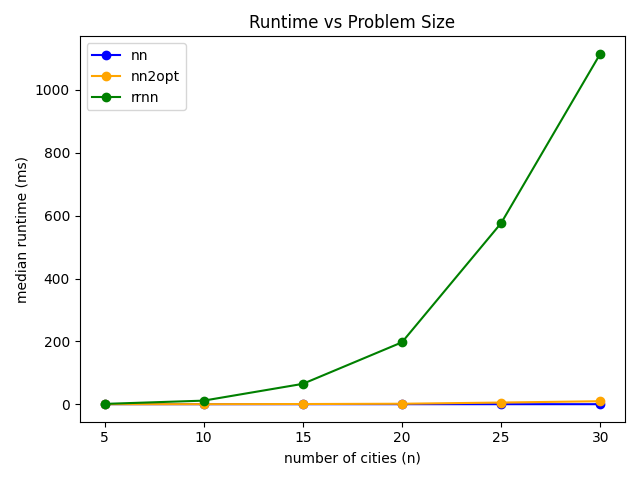
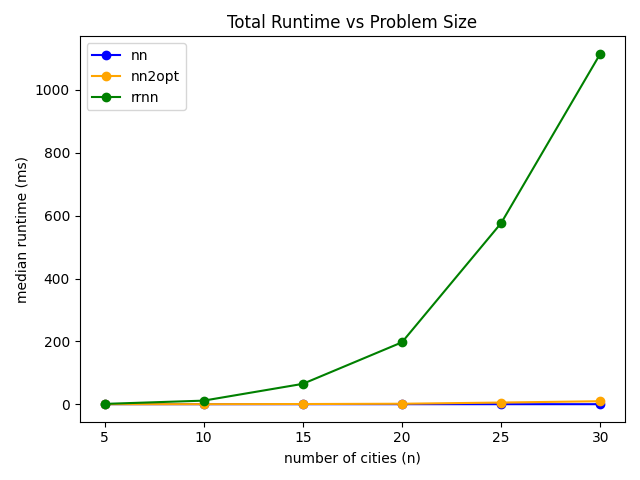
change up the greedy experiment to make it more yashu like

Changed region(s): [[0.3438, 0.0312, 0.75, 0.0625]]

diff --git a/experiments/greedy_experiments.py b/experiments/greedy_experiments.py
@@ -14,6 +14,20 @@ MATRICES_DIR = "data/matrices/Project_1_-_matrices"
 # these are the sizes we were given in the dataset
 SIZES = [5, 10, 15, 20, 25, 30]
 
+# pink color palette :)
+COLORS = {
+    "nn":     "hotpink",
+    "nn2opt": "deeppink",
+    "rrnn":   "lightpink"
+}
+
+# consistent marker styles so plots are readable even in grayscale
+MARKERS = {
+    "nn":     "o",
+    "nn2opt": "s",
+    "rrnn":   "^"
+}
+
 
 def load_matrices_by_size(data_dir):
     # group matrices by their size (number of cities)
@@ -22,7 +36,7 @@ def load_matrices_by_size(data_dir):
 
     for fname in sorted(os.listdir(data_dir)):
         if not fname.endswith(".txt"):
-            continue
+            continue  # skip anything that isnt a matrix file
         fpath = os.path.join(data_dir, fname)
         mat = load_matrix(fpath)
         n = mat.shape[0]  # n x n matrix so shape[0] gives number of cities
@@ -64,7 +78,6 @@ def run_rrnn_tuning(matrices):
     # that way we can actually tell which parameter is causing changes in cost
 
     # --- vary k, hold num_repeats fixed at 50 ---
-    # k=1 is basically regular NN, higher k = more randomness
     k_values = [1, 2, 3, 5, 7]
     fixed_repeats = 50
 
@@ -77,7 +90,6 @@ def run_rrnn_tuning(matrices):
             for mat in matrices[size]:
                 route, _, _ = time_algorithm(rrnn, mat, k=k, num_repeats=fixed_repeats)
                 costs.append(get_cost(route, mat))
-            # median is more robust than mean if one matrix happens to be weird
             k_results.append({"k": k, "size": size, "median_cost": np.median(costs)})
 
     df_k = pd.DataFrame(k_results)
@@ -85,7 +97,6 @@ def run_rrnn_tuning(matrices):
     print("saved rrnn_k_tuning.csv")
 
     # --- vary num_repeats, hold k fixed at 3 ---
-    # more repeats = better chance of finding a good tour but slower
     repeat_values = [10, 25, 50, 100, 200]
     fixed_k = 3
 
@@ -109,8 +120,7 @@ def run_rrnn_tuning(matrices):
 
 def run_comparison(matrices, best_k=3, best_repeats=50):
     # run all 3 algorithms on every matrix
-    # spec asks for median real runtime, median CPU time, and median cost
-    # we store every trial so we can compute medians after
+    # store every single trial so we can compute medians after
 
     results = []
 
@@ -142,15 +152,10 @@ def run_comparison(matrices, best_k=3, best_repeats=50):
 
 
 def run_consistency_experiment(matrices, best_k=3, best_repeats=50):
-    # BONUS EXPERIMENT: how consistent is each algorithm across different random matrices?
-    #
-    # this is genuinely interesting because two algorithms can have the same MEDIAN cost
-    # but one might be all over the place while the other is reliable
-    # we measure this using the coefficient of variation (std / mean)
-    # a higher value means the algorithm is more unpredictable
-    #
-    # this adds real depth to the report -- it's one thing to say "RRNN finds better tours"
-    # but another to say "and it's also more consistent than plain NN"
+    # bonus experiment: how consistent is each algorithm across different random matrices?
+    # two algorithms can have the same median cost but one might be all over the place
+    # we measure this using coefficient of variation (std / mean * 100)
+    # lower CV = more predictable and reliable across different inputs
 
     results = []
 
@@ -168,8 +173,6 @@ def run_consistency_experiment(matrices, best_k=3, best_repeats=50):
                 "size": size,
                 "mean_cost": np.mean(costs),
                 "std_cost": np.std(costs),
-                # coefficient of variation = how much variability relative to the mean
-                # multiply by 100 to express as a percentage
                 "cv": (np.std(costs) / np.mean(costs)) * 100,
             })
 
@@ -179,34 +182,57 @@ def run_consistency_experiment(matrices, best_k=3, best_repeats=50):
     return df
 
 
+def style_plot(title, xlabel, ylabel):
+    # helper to apply consistent styling to every plot
+    # calling this after plt.figure() sets up the background and font stuff
+    plt.title(title, fontsize=13, fontweight="bold", color="deeppink", pad=12)
+    plt.xlabel(xlabel, fontsize=11, color="#333333")
+    plt.ylabel(ylabel, fontsize=11, color="#333333")
+    plt.xticks(SIZES)
+    plt.gca().set_facecolor("#fff0f5")   # blush pink background inside the plot
+    plt.gcf().set_facecolor("#ffffff")   # white outer background
+    plt.gca().spines["top"].set_visible(False)     # remove top border
+    plt.gca().spines["right"].set_visible(False)   # remove right border
+    plt.gca().spines["left"].set_color("lightpink")
+    plt.gca().spines["bottom"].set_color("lightpink")
+    plt.gca().tick_params(colors="#555555")
+    plt.grid(True, color="lightpink", linestyle="--", linewidth=0.6, alpha=0.7)
+    plt.legend(fontsize=9)
+    plt.tight_layout()
+
+
 def plot_rrnn_tuning(df_k, df_repeats):
     os.makedirs("experiments/plots", exist_ok=True)
 
-    # plot 1: k on x axis, median cost on y axis (spec requirement)
-    plt.figure()
+    # plot 1: k on x axis, median cost on y axis
+    plt.figure(figsize=(8, 5))
     for size in SIZES:
         subset = df_k[df_k["size"] == size]
-        plt.plot(subset["k"], subset["median_cost"], marker="o", label=f"n={size}")
-    plt.xlabel("k (number of random choices)")
-    plt.ylabel("median cost")
-    plt.title("RRNN: Effect of k on Solution Cost")
-    plt.legend()
-    plt.tight_layout()
-    plt.savefig("experiments/plots/rrnn_k_tuning.png")
+        plt.plot(subset["k"], subset["median_cost"],
+                 marker="o", label=f"n={size}",
+                 color=plt.cm.RdPu(size / 35))  # gradient of pinks per size
+    style_plot(
+        title="RRNN: Effect of k on Solution Cost",
+        xlabel="k (number of random choices)",
+        ylabel="median cost"
+    )
+    plt.savefig("experiments/plots/rrnn_k_tuning.png", dpi=150)
     plt.close()
     print("saved rrnn_k_tuning.png")
 
-    # plot 2: num_repeats on x axis, median cost on y axis (spec requirement)
-    plt.figure()
+    # plot 2: num_repeats on x axis, median cost on y axis
+    plt.figure(figsize=(8, 5))
     for size in SIZES:
         subset = df_repeats[df_repeats["size"] == size]
-        plt.plot(subset["num_repeats"], subset["median_cost"], marker="o", label=f"n={size}")
-    plt.xlabel("num_repeats")
-    plt.ylabel("median cost")
-    plt.title("RRNN: Effect of num_repeats on Solution Cost")
-    plt.legend()
-    plt.tight_layout()
-    plt.savefig("experiments/plots/rrnn_repeats_tuning.png")
+        plt.plot(subset["num_repeats"], subset["median_cost"],
+                 marker="o", label=f"n={size}",
+                 color=plt.cm.RdPu(size / 35))
+    style_plot(
+        title="RRNN: Effect of num_repeats on Solution Cost",
+        xlabel="num_repeats",
+        ylabel="median cost"
+    )
+    plt.savefig("experiments/plots/rrnn_repeats_tuning.png", dpi=150)
     plt.close()
     print("saved rrnn_repeats_tuning.png")
 
@@ -215,60 +241,54 @@ def plot_comparison(df):
     os.makedirs("experiments/plots", exist_ok=True)
 
     # collapse 10 trials per size down to one median per algorithm per size
-    # spec specifically asks for median, not mean
     summary = (
         df.groupby(["algo", "size"])
           .median(numeric_only=True)
           .reset_index()
     )
 
-    # consistent colors across all 3 plots so the report looks cohesive
-    colors = {"nn": "blue", "nn2opt": "orange", "rrnn": "green"}
-    # x axis ticks match exactly what the spec asks for: 5, 10, 15, 20, 25, 30
-    xticks = SIZES
-
-    # plot 3: total runtime (spec requirement)
-    plt.figure()
+    # plot 3: total runtime
+    plt.figure(figsize=(8, 5))
     for algo in ["nn", "nn2opt", "rrnn"]:
         subset = summary[summary["algo"] == algo]
-        plt.plot(subset["size"], subset["runtime_ns"] / 1e6, marker="o", label=algo, color=colors[algo])
-    plt.xlabel("number of cities (n)")
-    plt.ylabel("median runtime (ms)")
-    plt.title("Total Runtime vs Problem Size")
-    plt.xticks(xticks)
-    plt.legend()
-    plt.tight_layout()
-    plt.savefig("experiments/plots/greedy_runtime.png")
+        plt.plot(subset["size"], subset["runtime_ns"] / 1e6,
+                 marker=MARKERS[algo], label=algo, color=COLORS[algo], linewidth=2)
+    style_plot(
+        title="Total Runtime vs Problem Size",
+        xlabel="number of cities (n)",
+        ylabel="median runtime (ms)"
+    )
+    plt.savefig("experiments/plots/greedy_runtime.png", dpi=150)
     plt.close()
     print("saved greedy_runtime.png")
 
-    # plot 4: CPU time (spec requirement)
-    plt.figure()
+    # plot 4: CPU time
+    plt.figure(figsize=(8, 5))
     for algo in ["nn", "nn2opt", "rrnn"]:
         subset = summary[summary["algo"] == algo]
-        plt.plot(subset["size"], subset["cpu_ns"] / 1e6, marker="o", label=algo, color=colors[algo])
-    plt.xlabel("number of cities (n)")
-    plt.ylabel("median CPU time (ms)")
-    plt.title("CPU Time vs Problem Size")
-    plt.xticks(xticks)
-    plt.legend()
-    plt.tight_layout()
-    plt.savefig("experiments/plots/greedy_cpu.png")
+        plt.plot(subset["size"], subset["cpu_ns"] / 1e6,
+                 marker=MARKERS[algo], label=algo, color=COLORS[algo], linewidth=2)
+    style_plot(
+        title="CPU Time vs Problem Size",
+        xlabel="number of cities (n)",
+        ylabel="median CPU time (ms)"
+    )
+    plt.savefig("experiments/plots/greedy_cpu.png", dpi=150)
     plt.close()
     print("saved greedy_cpu.png")
 
-    # plot 5: solution cost (spec requirement)
-    plt.figure()
+    # plot 5: solution cost
+    plt.figure(figsize=(8, 5))
     for algo in ["nn", "nn2opt", "rrnn"]:
         subset = summary[summary["algo"] == algo]
-        plt.plot(subset["size"], subset["cost"], marker="o", label=algo, color=colors[algo])
-    plt.xlabel("number of cities (n)")
-    plt.ylabel("median cost")
-    plt.title("Solution Cost vs Problem Size")
-    plt.xticks(xticks)
-    plt.legend()
-    plt.tight_layout()
-    plt.savefig("experiments/plots/greedy_cost.png")
+        plt.plot(subset["size"], subset["cost"],
+                 marker=MARKERS[algo], label=algo, color=COLORS[algo], linewidth=2)
+    style_plot(
+        title="Solution Cost vs Problem Size",
+        xlabel="number of cities (n)",
+        ylabel="median cost"
+    )
+    plt.savefig("experiments/plots/greedy_cost.png", dpi=150)
     plt.close()
     print("saved greedy_cost.png")
 
@@ -276,46 +296,41 @@ def plot_comparison(df):
 def plot_consistency(df):
     os.makedirs("experiments/plots", exist_ok=True)
 
-    # BONUS PLOT: coefficient of variation per algorithm per size
-    # this shows how predictable each algorithm is, not just how good it is on average
-    # a lower CV means the algorithm gives similar results regardless of which matrix you give it
-    colors = {"nn": "blue", "nn2opt": "orange", "rrnn": "green"}
-
-    plt.figure()
+    plt.figure(figsize=(8, 5))
     for algo in ["nn", "nn2opt", "rrnn"]:
         subset = df[df["algo"] == algo]
-        plt.plot(subset["size"], subset["cv"], marker="o", label=algo, color=colors[algo])
-    plt.xlabel("number of cities (n)")
-    plt.ylabel("coefficient of variation (%)")
-    plt.title("Solution Consistency Across Matrices (Lower = More Consistent)")
-    plt.xticks(SIZES)
-    plt.legend()
-    plt.tight_layout()
-    plt.savefig("experiments/plots/greedy_consistency.png")
+        plt.plot(subset["size"], subset["cv"],
+                 marker=MARKERS[algo], label=algo, color=COLORS[algo], linewidth=2)
+    style_plot(
+        title="Solution Consistency Across Matrices (Lower = More Consistent)",
+        xlabel="number of cities (n)",
+        ylabel="coefficient of variation (%)"
+    )
+    plt.savefig("experiments/plots/greedy_consistency.png", dpi=150)
     plt.close()
     print("saved greedy_consistency.png")
 
 
 if __name__ == "__main__":
-    print("loading matrices...")
-    matrices = load_matrices_by_size(MATRICES_DIR)
+    # load existing CSVs from previous run so we dont have to redo everything
+    print("loading existing results...")
+    df_k = pd.read_csv("experiments/rrnn_k_tuning.csv")
+    df_repeats = pd.read_csv("experiments/rrnn_repeats_tuning.csv")
+    df_comparison = pd.read_csv("experiments/greedy_comparison.csv")
+    print("loaded!")
 
+    # run only the new consistency experiment
+    print("loading matrices for consistency experiment...")
+    matrices = load_matrices_by_size(MATRICES_DIR)
     for size in SIZES:
         print(f"  n={size}: {len(matrices[size])} matrices loaded")
 
-    # step 1: tune RRNN hyperparameters (spec requirement)
-    df_k, df_repeats = run_rrnn_tuning(matrices)
-
-    # step 2: run full comparison (spec requirement)
-    # update best_k and best_repeats after looking at the tuning plots!
-    df_comparison = run_comparison(matrices, best_k=3, best_repeats=50)
-
-    # bonus: consistency experiment
     df_consistency = run_consistency_experiment(matrices, best_k=3, best_repeats=50)
 
-    # step 3: generate all required plots + bonus
+    # regenerate all plots with the new pink styling
+    print("generating plots...")
     plot_rrnn_tuning(df_k, df_repeats)
     plot_comparison(df_comparison)
     plot_consistency(df_consistency)
 
-    print("all done! check experiments/plots/ for your figures")
+    print("all done!! check experiments/plots/ :)")
